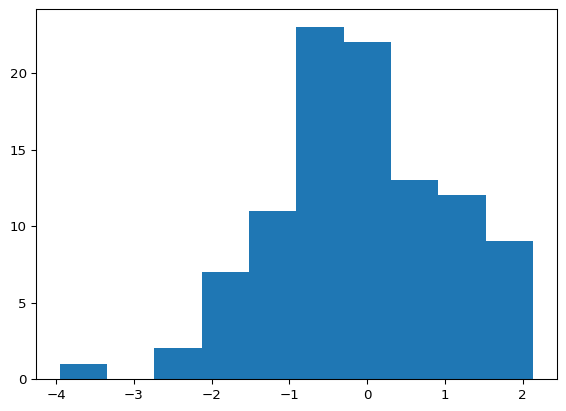
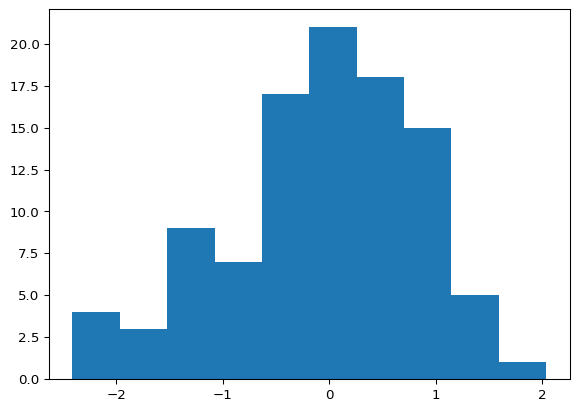
Built site for gh-pages

diff --git a/units/unit1.html b/units/unit1.html
@@ -193,7 +193,7 @@ $$
 <p>This is an example of using qmd as the source document.</p>
 <section id="evaluated-python-code-chunk-with-a-plot" class="level2">
 <h2 class="anchored" data-anchor-id="evaluated-python-code-chunk-with-a-plot">Evaluated Python code chunk, with a plot</h2>
-<div id="ad87d54c" class="cell" data-execution_count="1">
+<div id="6140c628" class="cell" data-execution_count="1">
 <details open="" class="code-fold">
 <summary>Code</summary>
 <div class="sourceCode cell-code" id="cb1"><pre class="sourceCode python code-with-copy"><code class="sourceCode python"><span id="cb1-1"><a href="#cb1-1" aria-hidden="true" tabindex="-1"></a><span class="im">import</span> numpy <span class="im">as</span> np</span>
@@ -211,7 +211,7 @@ $$
 </div>
 </div>
 <div class="cell-output cell-output-display" data-execution_count="1">
-<pre><code>np.float64(-0.11071001935981771)</code></pre>
+<pre><code>np.float64(-0.06330420722518199)</code></pre>
 </div>
 </div>
 </section>
@@ -273,7 +273,7 @@ Tip with Title
 </div>
 <div id="tabset-1-2" class="tab-pane" role="tabpanel" aria-labelledby="tabset-1-2-tab">
 <p>This code is executed.</p>
-<div id="bba61b45" class="cell" data-execution_count="2">
+<div id="c05639da" class="cell" data-execution_count="2">
 <details open="" class="code-fold">
 <summary>Code</summary>
 <div class="sourceCode cell-code" id="cb4"><pre class="sourceCode python code-with-copy"><code class="sourceCode python"><span id="cb4-1"><a href="#cb4-1" aria-hidden="true" tabindex="-1"></a><span class="kw">def</span> fizz_buzz(num):</span>

diff --git a/units/unit3.html b/units/unit3.html
@@ -190,7 +190,7 @@ $$
 <p>This is an example of using qmd as the source document with pdf as one target. I’ve taken out the qmd stuff that doesn’t seem to render to pdf.</p>
 <section id="evaluated-python-code-chunk-with-a-plot" class="level2">
 <h2 class="anchored" data-anchor-id="evaluated-python-code-chunk-with-a-plot">Evaluated Python code chunk, with a plot</h2>
-<div id="57c40e43" class="cell" data-execution_count="1">
+<div id="3c18bf15" class="cell" data-execution_count="1">
 <details open="" class="code-fold">
 <summary>Code</summary>
 <div class="sourceCode cell-code" id="cb1"><pre class="sourceCode python code-with-copy"><code class="sourceCode python"><span id="cb1-1"><a href="#cb1-1" aria-hidden="true" tabindex="-1"></a><span class="im">import</span> numpy <span class="im">as</span> np</span>
@@ -208,7 +208,7 @@ $$
 </div>
 </div>
 <div class="cell-output cell-output-display" data-execution_count="1">
-<pre><code>np.float64(0.047705064167577194)</code></pre>
+<pre><code>np.float64(-0.007369393482030593)</code></pre>
 </div>
 </div>
 </section>

diff --git a/resume.html b/resume.html
@@ -416,11 +416,10 @@ August 2018 – June 2021 | Fremont CA
 <ul>
 <li><strong>Languages:</strong>
 <ul>
-<li><strong>Advanced:</strong> Python, SQL, R<br>
-</li>
+<li><strong>Advanced:</strong> Python (NumPy, Pandas, Matplotlib, Scikit-learn), SQL, R (Shiny, ggplot2, dplyr, tidyverse)</li>
 <li><strong>Intermediate:</strong> Java, C++, MATLAB</li>
 </ul></li>
-<li><strong>Tools:</strong> Git, Pandas, NumPy, scikit-learn, MS Office, LaTeX</li>
+<li><strong>Tools:</strong> GitHub, Jupyter Notebook, MS Office (Word, Excel, PowerPoint, Outlook), LaTeX</li>
 <li><strong>Statistical Methods:</strong> Multivariate Data Analysis, Generalized Linear Models (GLMs), ANOVA, A/B Testing</li>
 <li><strong>Citizenship:</strong> U.S.-born citizen</li>
 </ul>
